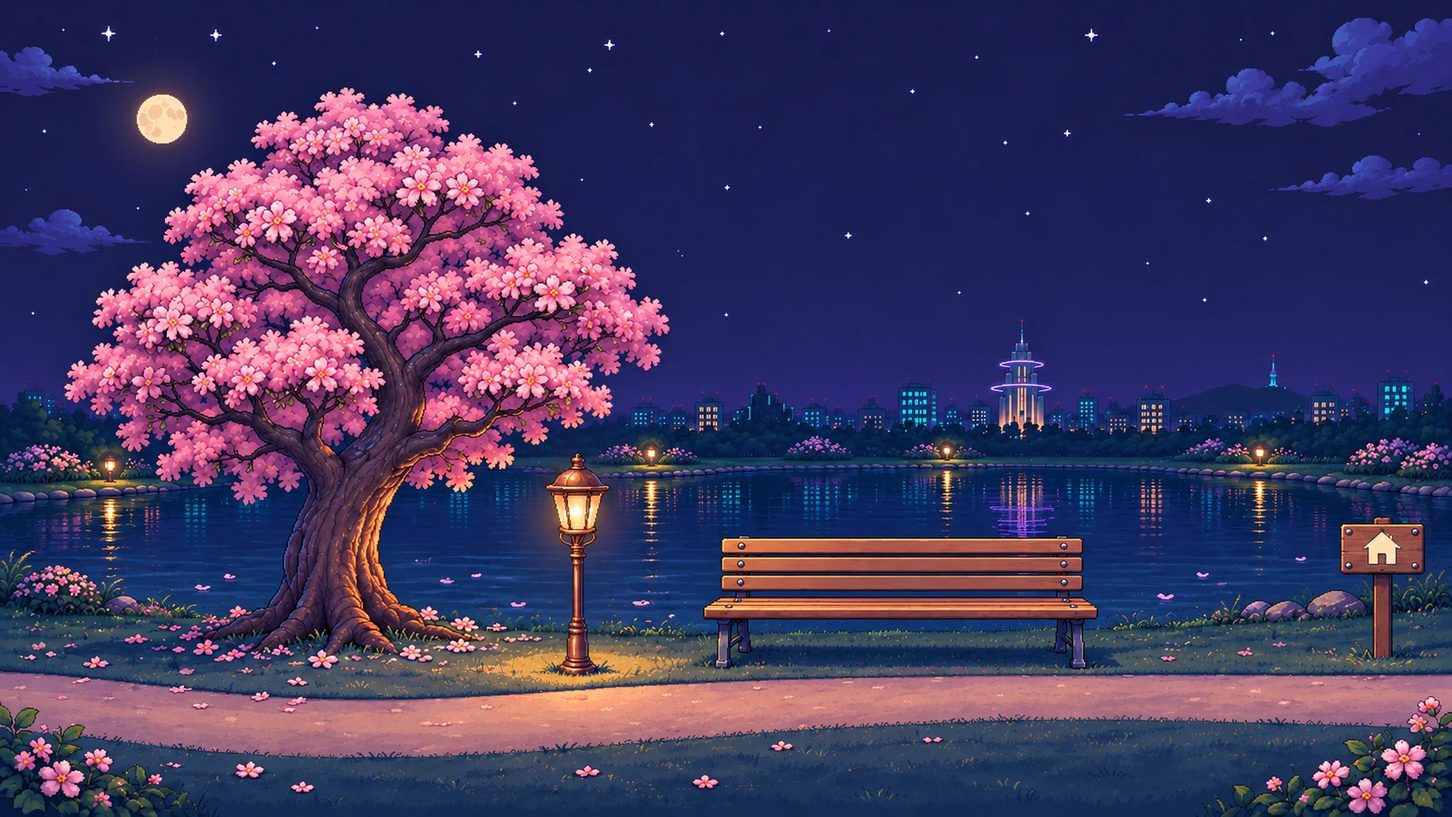
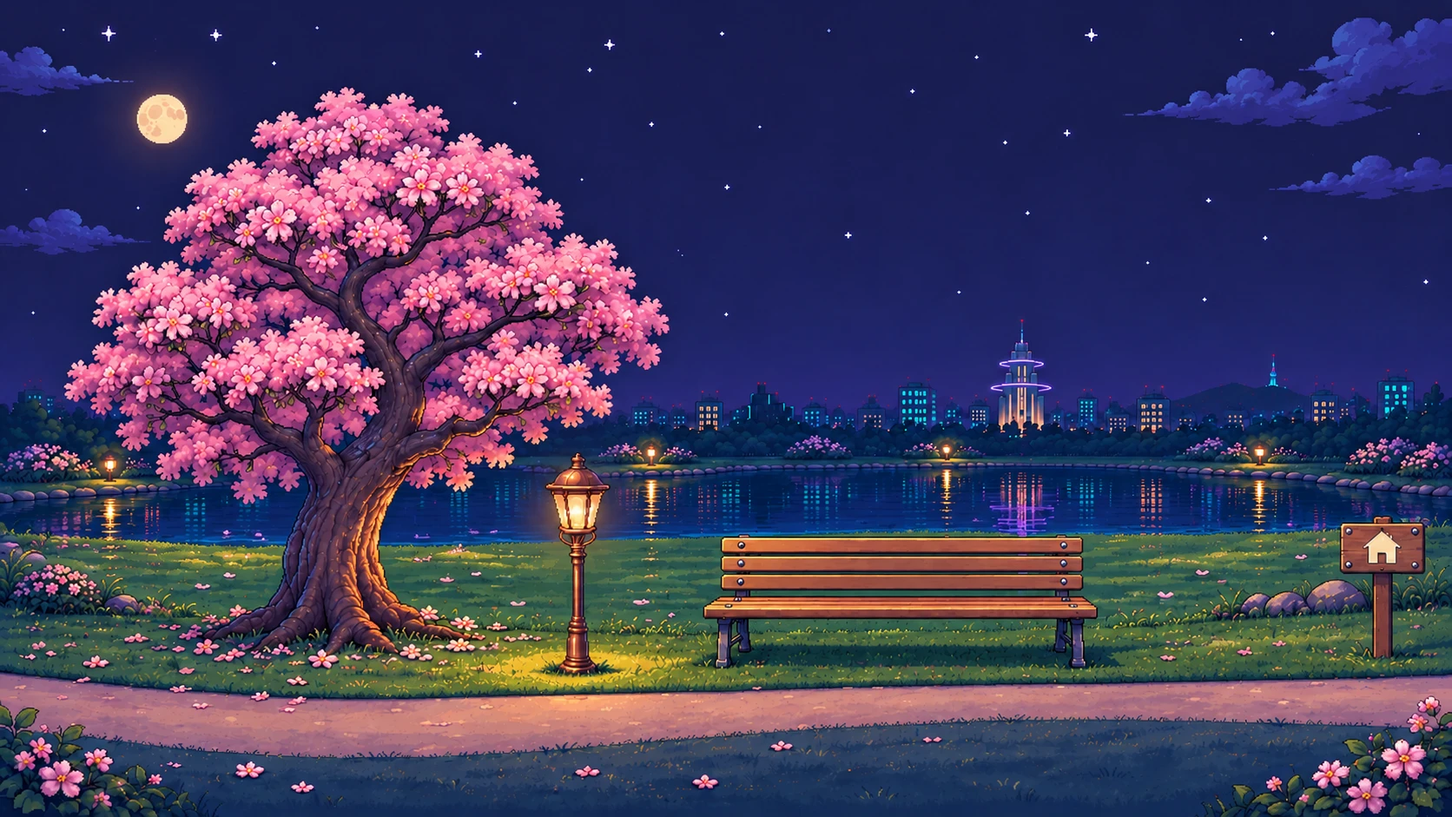
아바타 크기 복원, 기록 수만큼 책등에 색, 잔디가 넓어진 공원 그림, 벤치마다 4자리
- 아바타를 배경 교체 전 크기(장면 높이 대비 키 18/180)로, 좌석 높이·클릭 위치 다시 맞춤
- 새 방 그림(중성색 책등 19개): 책등 윤곽을 딴 색 그림으로 기록 1개마다 1권씩 색, 저장 즉시·첫 화면에도 반영
- 새 공원 그림: 물가까지 잔디 이동 범위, 벤치 뒤를 지나면 벤치가 앞에 보임, 소원 쪽지 자리 다시 고름
- 옥상 벤치 2개 × 4자리, 공원 벤치 1개 × 4자리 (좌판 폭에 고르게)

Claude-Session: https://claude.ai/code/session_014K92MtT8V9wQh7h5TrhrEt

diff --git a/public/js/shared/places.js b/public/js/shared/places.js
@@ -5,62 +5,66 @@
 export const WALK_SPEED = 60; // px/s
 
 export const PLACES = {
-  // 좌표는 확정 배경 그림(1672×941)을 320×180에 맞춘 값. 아바타는 2배 크기(서 있을 때 키 38, 폭 20)
+  // 좌표는 확정 배경 그림(1672×941)을 320×180에 맞춘 값. 아바타는 배경 교체 전과 같은 크기(서 있을 때 키 18, 폭 10)
   room: {
     name: '내 방',
     spawn: { x: 290, y: 150 },
     // door: 나무문 앞 / shelf: 책장 앞 / cd: 창문 오른쪽 CD 플레이어 아래 / center: 러그 위
-    targets: { door: { x: 290, y: 140 }, shelf: { x: 234, y: 142 }, center: { x: 220, y: 156 }, cd: { x: 106, y: 136 } },
+    targets: { door: { x: 290, y: 132 }, shelf: { x: 234, y: 136 }, center: { x: 220, y: 155 }, cd: { x: 110, y: 130 } },
     walk: {
-      band: { x0: 8, x1: 312, y0: 130, y1: 177 }, // 벽 아래 나무 바닥 전체 (러그 위 포함)
+      band: { x0: 6, x1: 314, y0: 126, y1: 177 }, // 벽 아래 나무 바닥 전체 (러그 위 포함)
       obstacles: [
-        { x: 0, y: 118, w: 32, h: 20 }, // 화분
-        { x: 114, y: 118, w: 68, h: 22 }, // 책상 (다리 끝 y≈134)
-        { x: 132, y: 118, w: 32, h: 28 }, // 의자 (다리 끝 y≈141)
-        { x: 200, y: 118, w: 70, h: 16 }, // 책장 (밑단 y≈127)
+        { x: 0, y: 118, w: 29, h: 12 }, // 화분 (밑 y≈126)
+        { x: 118, y: 118, w: 62, h: 18 }, // 책상 (다리 끝 y≈134)
+        { x: 134, y: 118, w: 28, h: 26 }, // 의자 (다리 끝 y≈141)
+        { x: 202, y: 118, w: 66, h: 12 }, // 책장 (밑단 y≈127)
       ],
     },
-    // 의자는 책상을 향해 있어 뒷모습으로 앉음. 좌판(초록 방석) 높이에 엉덩이가 오도록
-    seats: { chair: { x: 148, y: 128, approach: { x: 148, y: 152 }, back: true } },
+    // 의자는 책상을 향해 있어 뒷모습으로 앉음. 엉덩이가 초록 방석(y≈126~130) 위에 오도록
+    seats: { chair: { x: 148, y: 127, approach: { x: 148, y: 150 }, back: true } },
   },
   rooftop: {
     name: '옥상',
     desc: '고양이 전광판이 빛나는 야경 아래 벤치와 라디오. 짧게 이야기하거나 같은 음악을 들어요.',
-    spawn: { x: 296, y: 150 },
-    targets: { radio: { x: 240, y: 142 }, exit: { x: 296, y: 142 } }, // exit: 계단실 문 앞
+    spawn: { x: 296, y: 146 },
+    targets: { radio: { x: 240, y: 136 }, exit: { x: 296, y: 136 } }, // exit: 계단실 문 앞
     walk: {
-      band: { x0: 6, x1: 314, y0: 138, y1: 177 }, // 타일 바닥
+      band: { x0: 6, x1: 314, y0: 132, y1: 177 }, // 타일 바닥
       obstacles: [
-        { x: 0, y: 126, w: 30, h: 16 }, // 실외기
-        { x: 64, y: 126, w: 68, h: 16 }, // 벤치 A (다리 끝 y≈130)
-        { x: 154, y: 126, w: 68, h: 16 }, // 벤치 B
-        { x: 0, y: 150, w: 36, h: 30 }, // 왼쪽 아래 화초
-        { x: 286, y: 156, w: 34, h: 24 }, // 오른쪽 아래 화초
+        { x: 0, y: 124, w: 30, h: 12 }, // 실외기
+        { x: 68, y: 124, w: 62, h: 10 }, // 벤치 A (좌판 x 71~127, 다리 끝 y≈130)
+        { x: 158, y: 124, w: 62, h: 10 }, // 벤치 B (좌판 x 161~217)
+        { x: 0, y: 150, w: 30, h: 30 }, // 왼쪽 아래 화초
+        { x: 290, y: 158, w: 30, h: 22 }, // 오른쪽 아래 화초
       ],
     },
-    // 벤치 두 개, 각 3자리 (좌판 위에 앉음)
+    // 벤치 두 개 × 4자리 = 8자리. 좌판 폭(약 56)을 4등분한 가운데에 앉음 (간격 13, 아바타 폭 10이라 겹치지 않음)
     seats: Object.fromEntries([
-      ...[80, 98, 116].map((x, i) => [`A${i + 1}`, { x, y: 117, approach: { x, y: 144 } }]),
-      ...[171, 189, 207].map((x, i) => [`B${i + 1}`, { x, y: 117, approach: { x, y: 144 } }]),
+      ...[79, 92, 105, 118].map((x, i) => [`A${i + 1}`, { x, y: 118, approach: { x, y: 140 } }]),
+      ...[169, 182, 195, 208].map((x, i) => [`B${i + 1}`, { x, y: 118, approach: { x, y: 140 } }]),
     ]),
   },
   park: {
     name: '공원',
     desc: '벚나무와 달빛 호수가 있는 밤 산책길. 말없이 함께 쉬거나 소원 나무에 소원을 걸어요.',
     spawn: { x: 300, y: 154 },
-    targets: { tree: { x: 90, y: 156 }, exit: { x: 296, y: 154 } }, // exit: 집 모양 표지판 앞
+    targets: { tree: { x: 90, y: 150 }, exit: { x: 296, y: 152 } }, // exit: 집 모양 표지판 앞
     walk: {
-      band: { x0: 6, x1: 314, y0: 143, y1: 177 }, // 호숫가 잔디 ~ 앞쪽 산책로·잔디 (호수 안으로는 못 들어감)
+      band: { x0: 6, x1: 314, y0: 121, y1: 177 }, // 물가(y≈118) 바로 아래 잔디부터 앞쪽 산책로·잔디까지 (호수 안으로는 못 들어감)
       obstacles: [
-        { x: 44, y: 134, w: 66, h: 14 }, // 벚나무 줄기·뿌리
-        { x: 116, y: 138, w: 18, h: 12 }, // 가로등
-        { x: 148, y: 134, w: 100, h: 16 }, // 벤치 (다리 끝 y≈148)
-        { x: 294, y: 134, w: 18, h: 14 }, // 표지판 기둥
-        { x: 0, y: 156, w: 28, h: 24 }, // 왼쪽 아래 꽃덤불
-        { x: 282, y: 158, w: 38, h: 22 }, // 오른쪽 아래 꽃덤불
+        { x: 0, y: 118, w: 26, h: 18 }, // 왼쪽 물가 꽃덤불
+        { x: 54, y: 116, w: 46, h: 28 }, // 벚나무 줄기
+        { x: 46, y: 134, w: 64, h: 12 }, // 벚나무 뿌리
+        { x: 120, y: 138, w: 14, h: 12 }, // 가로등
+        { x: 152, y: 126, w: 92, h: 23 }, // 벤치 (좌판 앞~다리 끝 y≈148). 뒤쪽 잔디(y 121~125)는 걸을 수 있음
+        { x: 266, y: 124, w: 34, h: 10 }, // 오른쪽 물가 바위
+        { x: 299, y: 134, w: 10, h: 14 }, // 표지판 기둥
+        { x: 0, y: 156, w: 26, h: 24 }, // 왼쪽 아래 꽃덤불
+        { x: 288, y: 156, w: 32, h: 24 }, // 오른쪽 아래 꽃덤불
       ],
     },
-    seats: Object.fromEntries([170, 196, 222].map((x, i) => [`P${i + 1}`, { x, y: 133, approach: { x, y: 155 } }])),
+    // 벤치 1개 × 4자리. 좌판(x 155~241) 폭을 4등분 (간격 22)
+    seats: Object.fromEntries([166, 188, 210, 232].map((x, i) => [`P${i + 1}`, { x, y: 131, approach: { x, y: 153 } }])),
   },
 };
 

diff --git a/test/seats.test.js b/test/seats.test.js
@@ -1,0 +1,74 @@
+// 벤치 좌석: 옥상 벤치 2개 × 4자리, 공원 벤치 1개 × 4자리. 네 번째 자리까지 앉고, 모든 화면에 같은 자리, 일어나면 다른 사람이 앉음
+import { test, before, after } from 'node:test';
+import assert from 'node:assert/strict';
+import { spawn } from 'node:child_process';
+import fs from 'node:fs';
+import os from 'node:os';
+import path from 'node:path';
+import { io as ioc } from 'socket.io-client';
+import { PLACES } from '../public/js/shared/places.js';
+
+const PORT = 4400 + Math.floor(Math.random() * 90);
+const BASE = `http://127.0.0.1:${PORT}`;
+const dataDir = fs.mkdtempSync(path.join(os.tmpdir(), 'haru-seat-'));
+let proc;
+before(async () => {
+  proc = spawn(process.execPath, ['--no-warnings=ExperimentalWarning', 'server/index.js'], {
+    env: { ...process.env, PORT: String(PORT), DATA_DIR: dataDir, ADMIN_KEY: '', OPENROUTER_API_KEY: '', DATABASE_URL: '', SUPABASE_URL: '' },
+    stdio: ['ignore', 'ignore', 'inherit'],
+  });
+  for (let i = 0; i < 80; i++) { try { if ((await fetch(`${BASE}/healthz`)).ok) return; } catch { /* */ } await new Promise((r) => setTimeout(r, 100)); }
+  throw new Error('server did not start');
+});
+after(() => { proc?.kill(); fs.rmSync(dataDir, { recursive: true, force: true }); });
+
+const emit = (s, ev, d) => new Promise((r) => s.emit(ev, d, r));
+async function person(place) {
+  const res = await fetch(`${BASE}/api/guest`, { method: 'POST' });
+  const cookie = res.headers.get('set-cookie').split(';')[0];
+  const s = await new Promise((r) => { const so = ioc(BASE, { extraHeaders: { cookie }, transports: ['websocket'], forceNew: true }); so.on('connect', () => r(so)); });
+  s.seats = new Map(); // 이 사람 화면에서 본 각 사람의 자리
+  s.on('player:move', (m) => s.seats.set(m.sid, m.seat));
+  const j = await emit(s, 'join', { place });
+  j.players.forEach((p) => s.seats.set(p.sid, p.seat));
+  s.on('player:join', (p) => s.seats.set(p.sid, p.seat));
+  s.sid = j.you;
+  return s;
+}
+
+test('좌석 배치: 벤치마다 4자리가 좌판 안에 고르게, 서로 겹치지 않음', () => {
+  const benches = { rooftop: [['A1', 'A2', 'A3', 'A4'], ['B1', 'B2', 'B3', 'B4']], park: [['P1', 'P2', 'P3', 'P4']] };
+  for (const [place, groups] of Object.entries(benches)) {
+    assert.equal(Object.keys(PLACES[place].seats).length, groups.flat().length);
+    for (const g of groups) {
+      const xs = g.map((id) => PLACES[place].seats[id].x);
+      const gaps = xs.slice(1).map((x, i) => x - xs[i]);
+      assert.ok(gaps.every((d) => d === gaps[0]), `${place} 간격이 고름`);
+      assert.ok(gaps[0] >= 12, `${place} 아바타 폭(10)보다 넓은 간격`);
+    }
+  }
+});
+
+for (const [place, ids] of [['rooftop', ['A1', 'A2', 'A3', 'A4', 'B1', 'B2', 'B3', 'B4']], ['park', ['P1', 'P2', 'P3', 'P4']]]) {
+  test(`${place}: ${ids.length}명이 모든 자리(네 번째 자리 포함)에 앉고, 모든 화면에 같은 자리, 일어난 자리에 다른 사람`, async () => {
+    const people = [];
+    for (const id of ids) {
+      const s = await person(place);
+      const r = await emit(s, 'sit', { seat: id });
+      assert.equal(r.ok, true, `${id} 앉기`);
+      people.push(s);
+    }
+    await new Promise((r) => setTimeout(r, 300));
+    for (const viewer of people) for (const [i, p] of people.entries()) assert.equal(viewer.seats.get(p.sid), ids[i], `${ids[i]}가 모든 화면에 같은 자리`);
+    // 자리가 다 찼으면 더 앉을 수 없음
+    const extra = await person(place);
+    assert.equal((await emit(extra, 'sit', { seat: ids[3] })).ok, false);
+    // 네 번째 자리 사람이 일어나면(다른 곳으로 걸어감) 새 사람이 그 자리에 앉음
+    await emit(people[3], 'move', { x: 100, y: 170 });
+    await new Promise((r) => setTimeout(r, 100));
+    assert.equal((await emit(extra, 'sit', { seat: ids[3] })).ok, true);
+    await new Promise((r) => setTimeout(r, 200));
+    assert.equal(people[0].seats.get(extra.sid), ids[3]);
+    [...people, extra].forEach((s) => s.close());
+  });
+}

diff --git a/public/js/main.js b/public/js/main.js
@@ -36,7 +36,7 @@ function drawLanding() {
   cv.width = 320 * SCALE; cv.height = 180 * SCALE;
   const c = cv.getContext('2d');
   c.setTransform(SCALE, 0, 0, SCALE, 0, 0); c.imageSmoothingEnabled = false;
-  room.background(c);
+  room.background(c, { bookCount: user ? bookCount : 0 });
   room.animate(c, 0);
   drawAvatarScaled(c, PLACES.room.seats.chair.x, PLACES.room.seats.chair.y + 2, 3, { pose: 'sit', back: true });
   room.props[0].draw(c);
@@ -162,6 +162,7 @@ async function boot() {
     const { user: u } = await api('/api/me');
     if (u) {
       user = user || u; showNick(u.nickname); paintAccount();
+      refreshRoomBooks(); // 이미 쓴 기록을 첫 화면 그림의 책장에도 바로
       $('#start-btn').textContent = '내 방으로 들어가기';
       let enter = false;
       try { enter = sessionStorage.getItem('haruEnter') === '1'; sessionStorage.removeItem('haruEnter'); } catch { /* */ }
@@ -258,7 +259,7 @@ async function enterRoom(from = 'door') {
   place = 'room';
   roomSeat = null;
   roomMusic.stop(); // 방에 들어올 때는 늘 조용하게 (직접 켜야 재생)
-  stage.setScene(room, PLACES.room, 'room', {});
+  stage.setScene(room, PLACES.room, 'room', { bookCount });
   const n = PLACES.room.targets[from] || PLACES.room.spawn;
   stage.upsert('me', { nickname: user.nickname, color: user.color, me: true, points: [{ x: n.x, y: n.y }], startAt: net.now(), seat: null });
   setHud();
@@ -269,12 +270,16 @@ async function enterRoom(from = 'door') {
   }
 }
 
-/** 방 책장의 책 그림을 실제 기록 수에 맞춤 */
+/** 방 책장: 기록 수만큼 책등에 색을 입힘 (위 칸부터 왼쪽→오른쪽, 기록이 없으면 모두 배경 그림의 중성색) */
+let bookCount = 0;
+async function loadBookCount() {
+  try { const { months } = await api('/api/diary/months'); bookCount = months.reduce((s, m) => s + m.count, 0); } catch { /* */ }
+  return bookCount;
+}
 async function refreshRoomBooks() {
-  try {
-    const { months } = await api('/api/diary/months');
-    if (place === 'room') stage.renderBackground({ bookCount: months.reduce((s, m) => s + m.count, 0) });
-  } catch { /* */ }
+  await loadBookCount();
+  if (place === 'room' && stage) stage.renderBackground({ bookCount });
+  if (!$('#landing').hidden) drawLanding();
 }
 
 /**
@@ -314,7 +319,7 @@ function openExample(examples, id) {
 async function onRoomHotspot(id) {
   if (id === 'desk') {
     firstHint?.remove(); firstHint = null;
-    if (await sitAtDesk()) openDiary({ onViewInShelf: openMonth });
+    if (await sitAtDesk()) openDiary({ onViewInShelf: openMonth, onSaved: () => refreshRoomBooks() });
   } else if (id === 'shelf') {
     if (await walkLocal(PLACES.room.targets.shelf)) openBookshelf({ onOpenMonth: openMonth, onOpenExample: openExample });
   } else if (id === 'door') {

diff --git a/public/js/scenes/park.js b/public/js/scenes/park.js
@@ -6,8 +6,8 @@ import { TREE_NOTES } from '../shared/limits.js';
 // 소원 쪽지가 달리는 25개 자리: 그림 속 벚꽃 위에서만, 가지 전체에 고르게 (그림의 분홍 꽃 픽셀을 기준으로 미리 고름)
 // 26번째 쪽지는 가장 오래된 쪽지 자리에 달림
 export const NOTE_SLOTS = [
-  [76, 26], [96, 26], [60, 29], [112, 34], [44, 41], [73, 41], [96, 50], [116, 50], [55, 53], [134, 54], [29, 61], [85, 63], [104, 63],
-  [145, 67], [53, 70], [71, 74], [113, 75], [98, 82], [21, 83], [46, 85], [127, 87], [79, 89], [39, 98], [55, 99], [103, 99],
+  [76, 26], [112, 33], [60, 35], [91, 38], [44, 41], [71, 46], [104, 52], [55, 53], [127, 53], [30, 61], [85, 63], [101, 65], [53, 70],
+  [144, 72], [38, 74], [71, 74], [113, 75], [129, 82], [21, 83], [46, 85], [104, 86], [79, 89], [39, 97], [56, 98], [103, 99],
 ].map(([x, y]) => ({ x, y }));
 
 /** 나무에 보일 소원들(최신순, treeSeq 포함) → 쪽지 자리. 기본 자리 = (건 순서-1) % 25, 이미 찼으면 다음 빈자리 */
@@ -46,7 +46,11 @@ export const park = {
     }
   },
   // 가로등 뒤로 지나가는 아바타 앞에 가로등을 다시 그림
-  props: [{ y: 148.5, draw(c) { redrawParts(c, 'park', [[120, 99, 14, 19], [124, 117, 6, 32]]); } }],
+  props: [
+    { y: 148.5, draw(c) { redrawParts(c, 'park', [[120, 99, 14, 19], [124, 117, 6, 32]]); } },
+    // 벤치 뒤 잔디를 걷는 아바타 앞으로 벤치(등받이·좌판·다리)를 다시 그림. 벤치에 앉은 사람(y 131)은 벤치 위에 그려짐
+    { y: 129.5, draw(c) { redrawParts(c, 'park', [[158.5, 116.5, 82, 12.5], [154.5, 129, 88, 6], [158.5, 134, 7, 14], [231, 134, 7, 14]]); } },
+  ],
   /** 발 위치의 바닥: 앞쪽 산책로(흙) 또는 잔디 — 그림의 산책로 띠 */
   surfaceAt(x, y) {
     const top = 149.5 + (x < 160 ? 0 : (x - 160) * 0.004), bottom = x < 150 ? 163 - x * 0.01 : 165;

diff --git a/public/js/render/backdrops.js b/public/js/render/backdrops.js
@@ -13,6 +13,20 @@ for (const [id, src] of Object.entries(files)) {
   IMGS[id] = img;
   loads.push(img.decode ? img.decode().catch(() => new Promise((r) => { img.onload = r; img.onerror = r; })) : new Promise((r) => { img.onload = r; img.onerror = r; }));
 }
+// 방 책장의 책등 19개: 기록이 생길 때마다 하나씩 색을 입힌 그림(책등 윤곽 밖은 투명)과 위치
+const booksImg = new Image(); booksImg.src = '/img/scenes/room-books.png';
+let booksMeta = null;
+loads.push(booksImg.decode().catch(() => {}), fetch('/img/scenes/room-books.json').then((r) => r.json()).then((j) => { booksMeta = j; }).catch(() => {}));
+export const BOOK_SLOTS = () => booksMeta?.books.length || 0;
+/** 앞에서부터 n권의 책등에 색 (선반 위 칸부터 왼쪽→오른쪽) */
+export function drawColoredBooks(c, n) {
+  if (!booksMeta || !booksImg.complete || !n) return;
+  const [iw, ih] = booksMeta.image, kx = W / iw, ky = H / ih;
+  const smooth = c.imageSmoothingEnabled; c.imageSmoothingEnabled = true;
+  for (const b of booksMeta.books.slice(0, n)) c.drawImage(booksImg, b.ax, 0, b.w, b.h, b.x * kx, b.y * ky, b.w * kx, b.h * ky);
+  c.imageSmoothingEnabled = smooth;
+}
+
 /** 세 그림을 모두 불러왔을 때 */
 export const ready = Promise.all(loads);
 export const loaded = (id) => IMGS[id]?.complete && IMGS[id].naturalWidth > 0;

diff --git a/public/js/stage.js b/public/js/stage.js
@@ -6,8 +6,8 @@ import { now } from './net.js';
 
 const W = 320, H = 180;
 const BUBBLE_MS = 5200;
-// 아바타는 배경 그림의 의자·벤치 높이에 맞춰 2배 크기 (서 있을 때 키 38, 앉으면 30 — 320×180 좌표 기준)
-export const AVATAR_SCALE = 2;
+// 아바타 크기 배율 (320×180 좌표 기준 서 있을 때 키 18 × 배율)
+export const AVATAR_SCALE = 1; // 배경 교체 전과 같은 크기 (장면 높이 180 중 키 18)
 const STAND_H = 18 * AVATAR_SCALE, SIT_H = 15 * AVATAR_SCALE;
 /** 아바타를 발 위치 기준으로 확대해 그림 (픽셀 경계를 캔버스 실제 픽셀에 맞춤) */
 function drawBig(c, x, y, color, opts) {
@@ -257,7 +257,7 @@ export class Stage {
     }
     if (this.place && this.placeId !== 'room') {
       for (const [id, s] of Object.entries(this.place.seats)) {
-        if (x >= s.x - 9 - pad && x <= s.x + 9 + pad && y >= s.y - 24 - pad && y <= s.y + 6 + pad) {
+        if (x >= s.x - 9 - pad && x <= s.x + 9 + pad && y >= s.y - (STAND_H - 4) - pad && y <= s.y + 6 + pad) {
           const holder = this.seatsTaken.get(id);
           const mine = holder && this.entities.get(holder)?.me;
           return { type: 'seat', id, label: mine ? '내 자리' : holder ? '누군가 앉아 있어요' : '앉기' };

diff --git a/public/js/ui/diary.js b/public/js/ui/diary.js
@@ -14,7 +14,7 @@ export function forgetEntry(entryId) {
   draft.saved = null;
 }
 
-export async function openDiary({ onViewInShelf } = {}) {
+export async function openDiary({ onViewInShelf, onSaved } = {}) {
   const today = localToday();
   if (draft.date !== today) Object.assign(draft, { date: today, sentence: store.get(`draft:${today}`, ''), videoId: null, videoUrl: null, saved: null });
   const touch = matchMedia('(pointer: coarse)').matches;
@@ -112,6 +112,7 @@ export async function openDiary({ onViewInShelf } = {}) {
       setStatus(r.created ? '책장에 오늘의 한 장을 꽂았어요!' : '오늘의 페이지를 고쳐 저장했어요.', 'ok');
       $('#d-view').hidden = false; $('#d-save').textContent = '수정 저장하기';
       toast('저장 완료 — 책장에서 다시 볼 수 있어요 📚');
+      if (r.created) onSaved?.(r.entry); // 새 기록이면 방 책장에 책등 하나가 색을 입음
     } catch (e) {
       setStatus(`${e.message} 작성 중인 문장은 그대로 남아 있어요.`, 'err');
     } finally { $('#d-save').disabled = false; }

diff --git a/public/js/scenes/room.js b/public/js/scenes/room.js
@@ -1,6 +1,6 @@
 // 내 방: 확정 배경 그림(장밋빛 벽, 창문, 벽걸이 CD 플레이어, 책상과 의자, 책장, 나무문, 러그) 위에 기능을 연결
 import { rect, glow } from '../render/pixel.js';
-import { drawBackdrop, redrawParts, drawRotatedDisc } from '../render/backdrops.js';
+import { drawBackdrop, redrawParts, drawRotatedDisc, drawColoredBooks } from '../render/backdrops.js';
 import { isPlaying, cdAngle } from '../audio/roommusic.js';
 
 // 그림 속 CD 플레이어(창문 바로 오른쪽): 몸체·CD 중심·반지름 (320×180 좌표)
@@ -8,7 +8,10 @@ const CD = { x: 104, y: 57, w: 24, h: 23, cx: 115.5, cy: 67, r: 8.2 };
 
 export const room = {
   id: 'room',
-  background(c) { drawBackdrop(c, 'room'); },
+  background(c, ctx) {
+    drawBackdrop(c, 'room');
+    drawColoredBooks(c, ctx?.bookCount || 0); // 기록 하나마다 책등 하나에 색
+  },
   animate(c, t) {
     // CD: 재생 중에는 그림 속 CD가 천천히 돌고, 멈추면 그 각도에서 정지
     const on = isPlaying();

diff --git a/test/walk.test.js b/test/walk.test.js
@@ -19,11 +19,11 @@ test('모든 장소의 출발점·목표 지점은 걸을 수 있는 곳', () =>
 });
 
 test('가구·벤치·나무를 돌아가는 경로', () => {
-  const room = routeTo('room', { x: 60, y: 133 }, { x: 190, y: 133 });
+  const room = routeTo('room', { x: 60, y: 130 }, { x: 190, y: 130 });
   assert.ok(room.length > 2 && allWalkable('room', room), '책상·의자를 돌아감');
-  const roof = routeTo('rooftop', { x: 50, y: 139 }, { x: 240, y: 139 });
+  const roof = routeTo('rooftop', { x: 50, y: 133 }, { x: 240, y: 133 });
   assert.ok(roof.length > 2 && allWalkable('rooftop', roof), '벤치를 돌아감');
-  const park = routeTo('park', { x: 30, y: 145 }, { x: 112, y: 145 });
+  const park = routeTo('park', { x: 30, y: 140 }, { x: 112, y: 140 });
   assert.ok(park.length > 2 && allWalkable('park', park), '벚나무 줄기를 돌아감');
 });
 

diff --git a/README.md b/README.md
@@ -69,8 +69,10 @@
 ### 배경 그림과 클릭 위치
 - 세 장소는 확정 배경 그림 한 장씩을 그대로 씁니다. 그림 속 책상·의자·책장·CD 플레이어·벤치·라디오·벚나무·표지판은 그림에 있는 것을 그대로 보여 주고(코드로 다시 그리지 않음), 그 위치에 클릭 영역과 기능을 연결했습니다. 아바타·말풍선·이름표·소원 쪽지·별똥별·CD 회전·라디오 불빛처럼 움직이거나 사람마다 다른 것만 그림 위에 따로 그립니다.
 - 그림은 원래 비율(16:9)을 유지하고, 클릭 영역·걷는 바닥·좌석·아바타는 모두 같은 320×180 좌표 기준이라 창 크기가 바뀌어도 함께 확대·축소됩니다(양쪽 끝의 문·표지판까지 항상 보임).
-- 아바타는 그림 속 의자·벤치 좌판 높이에 맞춰 키 38(좌표 기준)로 그립니다. 앞을 보는 벤치에서는 좌판 위에 앉아 다리가 내려오고, 책상을 향한 방 의자에서는 뒷모습으로 앉아 의자 등받이 기둥이 몸 앞에 보입니다.
-- 사물을 한 번 누르면 그 앞까지 걸어가 바로 사용합니다: 방 — 책상(앉아서 다이어리) · 책장(지난 일기·기억 찾기) · 창문 오른쪽 CD 플레이어(재생/정지) · 나무문(옥상·공원 선택), 옥상 — 벤치 두 개(각 3자리) · 수납장 위 작은 라디오 · 계단실 문(내 방으로), 공원 — 벚나무(소원 나무) · 호수 앞 벤치(3자리) · 집 모양 표지판(내 방으로). 호수·하늘·벽은 걸을 수 없습니다.
+- 아바타는 배경을 바꾸기 전과 같은 크기(장면 높이 180 중 키 18)로 그립니다. 발이 누른 지점에 닿고, 앞을 보는 벤치에서는 엉덩이가 좌판 위에 앉아 다리가 앞으로 내려오며, 책상을 향한 방 의자에서는 뒷모습으로 방석 위에 앉고 의자 등받이 기둥이 몸 앞에 보입니다.
+- 사물을 한 번 누르면 그 앞까지 걸어가 바로 사용합니다: 방 — 책상(앉아서 다이어리) · 책장(지난 일기·기억 찾기) · 창문 오른쪽 CD 플레이어(재생/정지) · 나무문(옥상·공원 선택), 옥상 — 벤치 두 개(각 4자리, 모두 8자리) · 수납장 위 작은 라디오 · 계단실 문(내 방으로), 공원 — 벚나무(소원 나무) · 호수 앞 벤치(4자리) · 집 모양 표지판(내 방으로). 호수·하늘·벽은 걸을 수 없습니다.
+- **책장**: 그림 속 책등 19개(위 칸 6 · 가운데 칸 7 · 아래 칸 6)는 기록이 없을 때 모두 같은 중성색이고, 다이어리 기록이 하나 생길 때마다 위 칸부터 왼쪽→오른쪽으로 책등 하나에 색(금색 띠·무늬)이 입혀집니다(배경 교체 전과 같은 ‘기록 1개 = 책 1권’ 기준). 색은 그림에서 책등마다 윤곽을 따 둔 모양(`public/img/scenes/room-books.png`·`.json`) 안에만 칠해져 선반이나 옆 책으로 번지지 않습니다. 첫 화면 그림과 내 방에 바로 반영되고, 새 일기를 저장하면 새로고침 없이 바뀝니다.
+- **공원 잔디**: 호숫가(물가 y≈118) 바로 아래부터 산책로까지, 벤치 뒤와 양옆 잔디도 걸을 수 있습니다. 벤치 뒤를 지나가면 벤치가 아바타 앞에 보입니다.
 - 소원 나무 쪽지는 실제로 쓴 소원이 있을 때만 벚꽃 가지 25곳(그림의 꽃 위치에서 고르게 고른 자리)에 매달립니다.
 
 ### 자세한 이용 방법
@@ -344,7 +346,7 @@ AI가 고르는 새 단서는 실행할 때마다 조금 달라질 수 있습니
 | 프런트엔드 | 빌드 도구 없는 바닐라 JS 모듈 + Canvas 2D 픽셀 아트(320×180 → 정수 배율 확대), 공원 자연음은 Web Audio로 합성 |
 | AI | OpenRouter Chat Completions (기본 모델 `anthropic/claude-haiku-5.5`, 환경변수로 변경) |
 | 계정 | 게스트 = 브라우저 쿠키의 임의 토큰(서버엔 SHA-256 해시만, `sessions` 표). 정식 계정 = 같은 `users` 행에 정규화한 닉네임(유일)과 **scrypt 비밀번호 해시**(계정마다 무작위 소금)를 더함 → 게스트 기록이 그대로 이어짐. 로그인마다 새 세션, 로그아웃은 그 브라우저 세션만 삭제, 개인 API 응답은 `Cache-Control: no-store` |
-| 테스트 | `node:test` 38개(서버·계정·접속자 수·소원 나무·RAG·새 노래 추천·AI 작곡·길찾기·재시작 보존. SQLite 모드 37개 + `TEST_DATABASE_URL` 지정 시 PostgreSQL 보존 테스트 1개), Playwright(브라우저 시나리오 — 개발 중 실행) |
+| 테스트 | `node:test` 41개(서버·계정·접속자 수·소원 나무·벤치 좌석·RAG·새 노래 추천·AI 작곡·길찾기·재시작 보존. SQLite 모드 40개 + `TEST_DATABASE_URL` 지정 시 PostgreSQL 보존 테스트 1개), Playwright(브라우저 시나리오 — 개발 중 실행) |
 
 ### 필요한 프로그램
 - **Node.js 22.13 이상** (`node:sqlite` 사용, 개발·검증은 22.23.5) · npm 10 이상
@@ -507,7 +509,7 @@ docs/screenshots/
 | 글꼴: 고운돋움 (Gowun Dodum v2.000) | 류양희 작. **SIL Open Font License 1.1**. Google Fonts 공식 저장소 <https://github.com/google/fonts/tree/main/ofl/gowundodum> 의 TTF를 WOFF2로 형식만 변환해 자체 호스팅(라이선스 `OFL.txt` 동봉). 다이어리 작성창·본문, 기억 찾기 질문·답변, 옥상 말풍선, 소원 등 읽는 문장에 사용 |
 
 ### 개발 현황
-**✅ 실제로 동작을 확인한 기능** (로컬 서버 + Playwright 브라우저 자동화, `npm test` 통과: SQLite 모드 37개)
+**✅ 실제로 동작을 확인한 기능** (로컬 서버 + Playwright 브라우저 자동화, `npm test` 통과: SQLite 모드 40개)
 - ① 링크 입장 → 다이어리 저장 → 새로고침 → 책장에서 같은 영상 재생 (파일 선택 취소·잘못된 파일 업로드 후 문장 유지 포함)
 - ② 분리된 두 브라우저 세션이 각자 방에서 출발해 같은 옥상 벤치에 나란히 앉음, 동시 좌석 클릭 시 한 명만 착석, 말풍선이 두 화면에서 해당 아바타 위에 표시, 51자 거부
 - ③ 신청곡이 현재 곡 종료 후 두 화면에서 같은 곡·같은 지점(오차 약 0.05초)으로 시작, 신청곡 알림, 한쪽 음소거 중에도 다른 쪽 재생 지속, 1인 1곡·미등록 곡 ID 거부
@@ -529,6 +531,7 @@ docs/screenshots/
 - **공원 소리 다듬기 (2026-11-25, 같은 합성 코드를 오프라인으로 렌더링해 수정 전후 비교)**: 벤치에 30초 앉은 장면에서 풀벌레만 따로 재면 최고 세기 -23.2dB → **-35.2dB**(약 12dB 낮춤), 3.5kHz 이상 고음 비중 99.7% → **0%**(중심 주파수 4.3kHz → 2.7kHz), 울고 있는 시간 97% → **13%**, 울음 사이 바람 소리만 들리는 구간 최대 1초 → **5.6초**. 걷는 장면(잔디 → 산책로, 0.24초마다 한 걸음, 44걸음)에서 발소리가 최고점에 이르는 시간은 중앙값 30ms(예전엔 8ms 만에 치솟는 '딱' 소리), 걸음별 세기 차이 표준편차 2.2dB, 잔디 걸음은 밝은 소리(영교차 기준 약 3.0kHz)·산책로 걸음은 낮은 소리(약 0.5kHz)로 구분됨
 - **소원 나무 7일·25개, 라디오 한 사람 한 곡, AI 작곡 횟수, 내가 만든 노래 (2026-11-25)**: 로컬에서 소원 27개를 건 뒤 1번을 8일 전으로 바꾸자 나무에는 쪽지 25개(최신 27번부터), 소원 모아보기에는 26개(나무에서 내려간 2번은 ‘나무에서 내려가 목록에만’, 만료된 1번은 없음), 만료된 소원에 응원하면 410. 나무 클릭 → ‘소원 쓰기 / 소원 모아보기’, 입력창 아래 ‘소원은 7일 동안 공원에 머물러요.’ 기본 선곡표에서 한 곡 신청 후 다른 곡을 빠르게 두 번 누르면 그 버튼 바로 아래에 안내, 대기열은 1곡 그대로. 서버 테스트로 내 곡이 재생 중일 때도 거절되고 끝나면 다시 신청되는 것을 확인. 배포 사이트에서 실제 AI로 작곡 → ‘내가 만든 노래’ 맨 위에 자동 저장(제목·입력 문장·날짜·0:47), 새로고침 후에도 목록과 다시 듣기(Supabase 음원 206 audio/wav), 기본 곡을 신청해 둔 상태에서 내 노래 신청 → ‘이미 곡을 신청하셨어요. 신청한 곡이 끝날 때까지 기다려 주세요!’. 로컬에서 같은 계정으로 다른 브라우저 로그인 시 같은 목록·재생, 5곡을 만든 뒤 6번째는 ‘약 10분 후에 다시 작곡할 수 있어요.’
 - **확정 배경 그림 적용 (배포 사이트, 2026-11-25)**: 창 크기를 1280×860 → 900×640 → 412×860(휴대폰 세로)으로 바꿔 가며 내 방 → 옥상 → 내 방 → 공원 → 내 방으로 이동. 세 크기 모두 무대 비율 16:9(1.778), 가로 스크롤 없음, 양쪽 끝 문·표지판까지 보임. 그림 위를 한 번씩 클릭: 방 — CD 플레이어(걸어가 도착 후 재생, 다시 누르면 정지), 책상(의자에 앉고 ‘오늘의 한 장’), 책장(‘내 책장’), 러그 위 바닥(이동), 나무문(장소 선택) / 옥상 — 두 사람이 벤치 A·B 가운데 자리에 앉아 두 화면 모두 같은 좌석·좌표(A2 98,117 · B2 189,117), 말풍선이 상대 화면에도, 작은 라디오(라디오 창 + 공용 음악 재생 중), 계단실 문(내 방) / 공원 — 들어서자 밤 소리, 잔디·산책로를 걸으며 바닥별 발소리 17번, 호수 클릭은 이동 안 함, 벚나무(소원 쓰기·모아보기), 벤치(앉기), 집 모양 표지판(내 방, 밤 소리 멈춤). 로컬에서 시연 키로 별똥별을 띄워 두 화면이 같은 시각에 빌딩 위 하늘로 지나가는 것도 확인
+- **아바타 크기 복원·책장 색·넓어진 공원 잔디·벤치 4자리 (2026-11-25)**: 1280×860 화면에서 무대 높이 702px 기준 아바타 키 70px(=18/180, 배경 교체 전과 같은 비율). 책상 오른쪽 바닥을 누르면 발이 그 지점(188,136)에 섬. 기록 0개일 때 책등 19개 모두 중성색 → 책상에서 첫 일기를 저장하자 새로고침 없이 맨 위 칸 첫 책등만 색이 입혀지고 첫 화면 그림에도 반영. 공원에서 벤치 왼쪽·오른쪽 옆 잔디, 벤치 뒤 잔디(등받이 뒤로 가려짐), 나무 왼쪽 물가 잔디까지 걷기, 호수 클릭은 이동 없음. 네 사람이 공원 벤치 P1~P4(네 번째 자리 포함)에 앉아 두 화면 모두 같은 자리·좌표, 한 명이 일어난 자리에 다른 사람이 앉음, 벚나무 → 소원 나무, 표지판 → 내 방. 옥상 벤치 A·B의 네 번째 자리(A4·B4) 앉기. 서버 테스트로 옥상 8명·공원 4명이 모든 자리에 동시에 앉고, 다 찬 자리는 거절, 일어난 자리는 다시 앉을 수 있는 것을 확인
 - **글꼴·닉네임 (2026-11-24)**: 갈무리11(장소·이름표·제목·버튼)과 고운돋움(다이어리·질문·답변·말풍선·소원)이 각 요소에 실제로 적용됨을 계산된 글꼴로 확인. PC(1280×800)·모바일(Pixel 7)에서 12자 닉네임 이름표, 50자 말풍선, 두 줄 AI 답변이 잘리거나 서로 겹치지 않음(모바일에서 말풍선·가장자리 이름표가 잘리던 문제를 실제 폭 기준 배치로 수정). 내 방 → ← 홈으로 → 닉네임 변경(취소·13자 거절 포함) → 새로고침 후에도 유지 → 내 방 재입장 시 같은 책장의 기존 일기 유지, 옥상의 두 번째 사용자가 바뀐 닉네임을 봄
 - **방 책상 비율 (2026-11-24)**: 1인용 책상으로 줄이고 의자를 가운데에 맞춤. 책상 클릭 → 의자에 앉아 다이어리 창, 줄어든 책상 옆 빈 바닥 클릭 → 그 위치까지 이동
 - **기억 찾기 (배포 사이트 + 실제 OpenRouter, 2026-11-24)**: 예시 기록으로 ① 첫 검색에서 찾음 ② 검색어를 바꿔 찾음(지난달 기간 유지) ③ 끝까지 근거 없음 — 위 ‘예시 기록으로 한 테스트 결과’ 표
